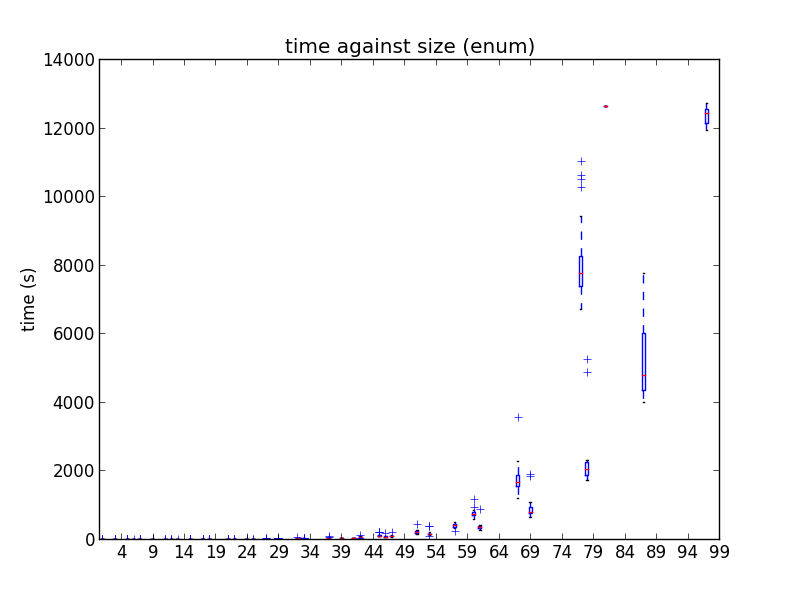
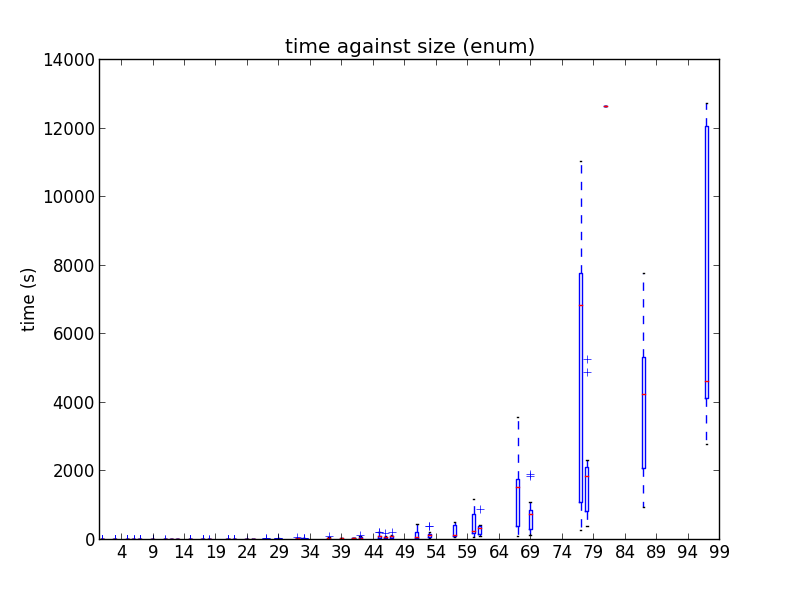
Have plot for dates

diff --git a/vk-analysis.py b/vk-analysis.py
@@ -5,14 +5,16 @@ Script to analyse the log.csv file.
 from __future__ import division
 from csv import reader, writer
 import matplotlib.pyplot as plt
+import matplotlib.dates
 from scipy import mean
+import datetime
 
 class Instance():
     """
     A row of data
     """
     def __init__(self, date, time, dim, ring, A, B, lrs_time, LCP_time, enum_time, lrs_output, LCP_output, enum_output, host):
-        self.date = date
+        self.date = datetime.datetime.strptime(date, "%d/%m/%Y")
         self.time = time
         self.ring = ring
         self.dim = eval(dim)
@@ -263,6 +265,17 @@ if __name__ == '__main__':
     plt.xlabel('$n$')
     plt.title("Mean best time (s)")
     plt.savefig('./plots/vk/mean_best_time.png')
+
+    # Plotting the time for enumeration against the date of the experiment
+
+    dates = sorted(list(set([instance.date for instance in data])))
+    plt.figure()
+    plt.boxplot([[instance.enum_time / instance.size for instance in data if instance.date == d] for d in dates])
+    plt.xticks(range(1, len(dates)+1), [d.strftime("%Y-%m-%d") for d in dates], rotation=70)
+    plt.ylabel('time (s)')
+    plt.title("Enumeration time against date")
+    plt.tight_layout()
+    plt.savefig('./plots/vk/enum_time_against_date.png')
 
     # Printing number of games that fail
 
